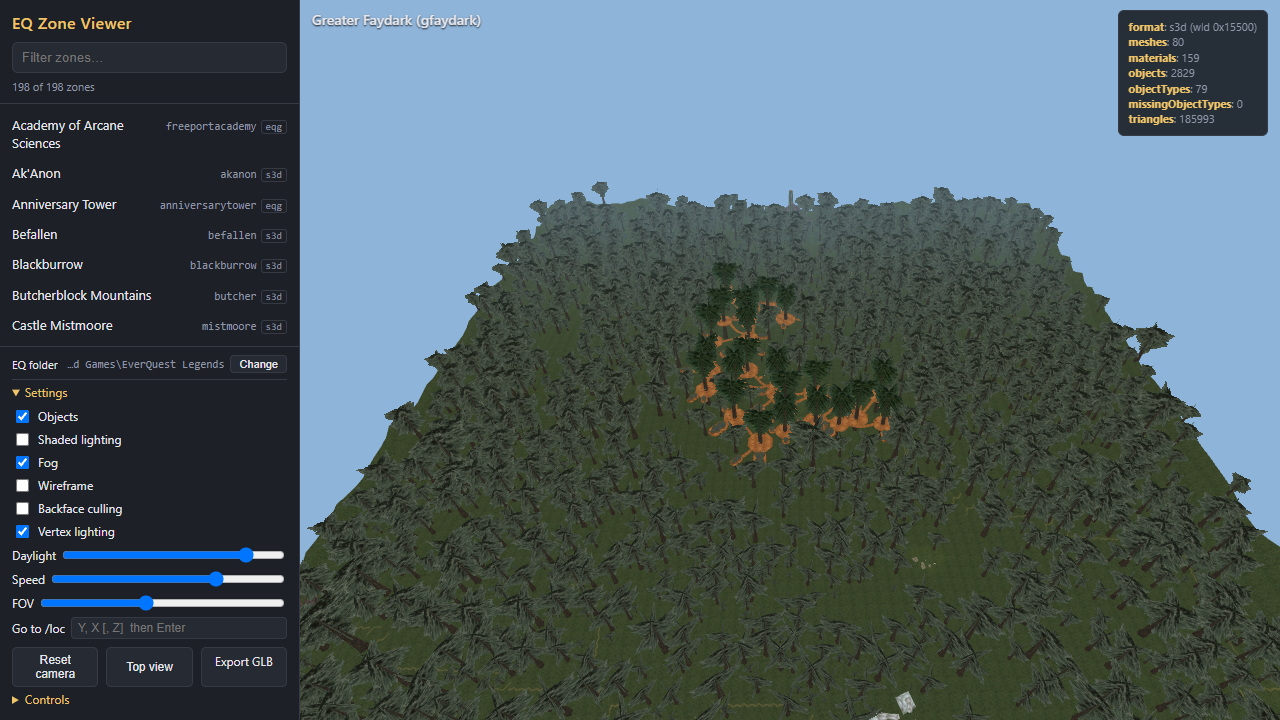
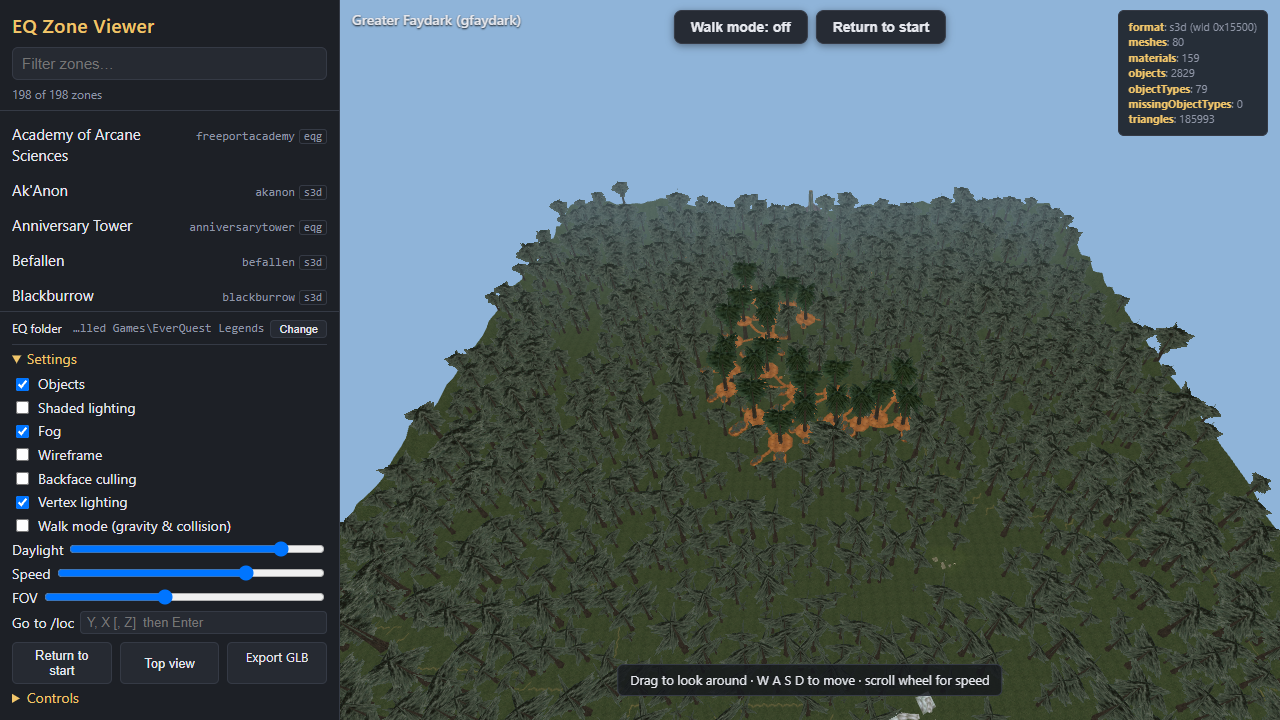
Drag-based mouse look and a larger sidebar font
Mouse look no longer captures the pointer: drag with the left or right button
to look around, so the menu stays one click away. Clicked buttons drop focus so
Space keeps jumping or flying. The sidebar text is larger and the panel wider,
and the README screenshots are refreshed.

Changed region(s): [[0.0, 0.0, 1.0, 1.0], [0.5, 0.0, 0.75, 0.0917]]

diff --git a/src/client/main.ts b/src/client/main.ts
@@ -231,6 +231,7 @@ async function loadZone(z: ZoneInfo): Promise<void> {
     applyHashCamera();
     setStatus(`${z.longName}  (${z.name})`);
     showWarnings(extras);
+    hintEl.classList.remove('hidden');
   } catch (e: any) {
     console.error(e);
     setStatus(`Failed to load ${z.name}: ${e.message}`);
@@ -309,8 +310,6 @@ let yaw = 0;
 let pitch = 0;
 let speed = 180;
 const velocity = new THREE.Vector3();
-let pointerLocked = false;
-
 // ---------- Walk mode (gravity + collision) ----------
 const EYE_HEIGHT = 6; // EverQuest units; the camera sits at a character's eye level
 const STEP_HEIGHT = 3; // ledges lower than this are stepped over instead of blocking
@@ -586,19 +585,31 @@ function updateCameraRotation(): void {
   camera.quaternion.setFromEuler(new THREE.Euler(pitch, yaw, 0, 'YXZ'));
 }
 
-canvas.addEventListener('click', () => {
-  if (!pointerLocked) canvas.requestPointerLock();
+// Mouse look is drag-based (left or right button) so the cursor stays free for the menu.
+let dragging = false;
+canvas.addEventListener('mousedown', (e) => {
+  if (e.button !== 0 && e.button !== 2) return;
+  dragging = true;
+  canvas.classList.add('dragging');
+  hintEl.classList.add('hidden');
+  canvas.focus();
+  e.preventDefault();
 });
-document.addEventListener('pointerlockchange', () => {
-  pointerLocked = document.pointerLockElement === canvas;
-  hintEl.classList.toggle('hidden', pointerLocked || !zoneRoot);
+window.addEventListener('mouseup', () => {
+  dragging = false;
+  canvas.classList.remove('dragging');
 });
-document.addEventListener('mousemove', (e) => {
-  if (!pointerLocked) return;
-  yaw -= e.movementX * 0.0022;
-  pitch -= e.movementY * 0.0022;
+window.addEventListener('mousemove', (e) => {
+  if (!dragging) return;
+  yaw -= e.movementX * 0.004;
+  pitch -= e.movementY * 0.004;
   pitch = THREE.MathUtils.clamp(pitch, -Math.PI / 2 + 0.01, Math.PI / 2 - 0.01);
   updateCameraRotation();
+});
+canvas.addEventListener('contextmenu', (e) => e.preventDefault());
+// A clicked button keeps keyboard focus, which would make Space re-trigger it instead of jumping or flying up.
+document.addEventListener('click', (e) => {
+  if (e.target instanceof HTMLButtonElement || e.target instanceof HTMLAnchorElement) e.target.blur();
 });
 canvas.addEventListener('wheel', (e) => {
   speed *= Math.pow(1.15, -Math.sign(e.deltaY));
@@ -618,7 +629,11 @@ window.addEventListener('keydown', (e) => {
   }
 });
 window.addEventListener('keyup', (e) => keys.delete(e.code));
-window.addEventListener('blur', () => keys.clear());
+window.addEventListener('blur', () => {
+  keys.clear();
+  dragging = false;
+  canvas.classList.remove('dragging');
+});
 
 function applyVisibility(): void {
   if (!zoneRoot) return;

diff --git a/public/style.css b/public/style.css
@@ -28,8 +28,9 @@ body {
 }
 
 #sidebar {
-  width: 300px;
-  flex: 0 0 300px;
+  width: 340px;
+  flex: 0 0 340px;
+  font-size: 15px;
   background: var(--panel);
   border-right: 1px solid var(--border);
   display: flex;
@@ -44,7 +45,7 @@ body {
 
 #sidebar h1 {
   margin: 0 0 8px;
-  font-size: 16px;
+  font-size: 19px;
   font-weight: 600;
   color: var(--accent2);
   letter-spacing: 0.02em;
@@ -53,6 +54,7 @@ body {
 #filter {
   width: 100%;
   padding: 7px 9px;
+  font-size: 15px;
   border-radius: 6px;
   border: 1px solid var(--border);
   background: var(--panel2);
@@ -66,7 +68,7 @@ body {
 
 #zone-count {
   margin-top: 6px;
-  font-size: 11px;
+  font-size: 12px;
 }
 
 #zone-list {
@@ -79,7 +81,7 @@ body {
 }
 
 #zone-list li {
-  padding: 6px 12px;
+  padding: 7px 12px;
   cursor: pointer;
   display: flex;
   justify-content: space-between;
@@ -98,7 +100,7 @@ body {
 
 #zone-list li .short {
   color: var(--muted);
-  font-size: 11px;
+  font-size: 12px;
   font-family: ui-monospace, Consolas, monospace;
 }
 
@@ -107,7 +109,7 @@ body {
 }
 
 #zone-list li .kind {
-  font-size: 10px;
+  font-size: 11px;
   color: var(--muted);
   border: 1px solid var(--border);
   border-radius: 3px;
@@ -118,7 +120,7 @@ body {
 #sidebar footer {
   border-top: 1px solid var(--border);
   padding: 8px 12px;
-  font-size: 12px;
+  font-size: 14px;
 }
 
 details summary {
@@ -148,7 +150,7 @@ details summary {
   border: 1px solid var(--border);
   background: var(--panel2);
   color: var(--text);
-  font-size: 12px;
+  font-size: 13px;
   min-width: 0;
 }
 
@@ -169,7 +171,7 @@ details summary {
   color: var(--text);
   text-decoration: none;
   cursor: pointer;
-  font-size: 12px;
+  font-size: 13px;
 }
 
 #settings button:hover,
@@ -197,6 +199,11 @@ details summary {
   height: 100%;
   display: block;
   outline: none;
+  cursor: grab;
+}
+
+#canvas.dragging {
+  cursor: grabbing;
 }
 
 #hud {
@@ -263,7 +270,7 @@ details summary {
   display: flex;
   align-items: center;
   gap: 6px;
-  font-size: 11px;
+  font-size: 12px;
   padding-bottom: 6px;
   margin-bottom: 4px;
   border-bottom: 1px solid var(--border);

diff --git a/public/index.html b/public/index.html
@@ -41,7 +41,7 @@
       </details>
       <details id="help">
         <summary>Controls</summary>
-        <p>Click the view to capture the mouse, <b>Esc</b> to release.<br />
+        <p>Drag in the view (left or right button) to look around.<br />
           <b>W A S D</b> move · <b>Q / C</b> down · <b>E / Space</b> up<br />
           <b>Shift</b> fast · <b>Ctrl</b> slow · <b>Mouse wheel</b> speed<br />
           <b>R</b> reset camera · <b>O</b> toggle objects · <b>T</b> top view<br />
@@ -50,7 +50,7 @@
     </footer>
   </aside>
   <main id="view">
-    <canvas id="canvas"></canvas>
+    <canvas id="canvas" tabindex="-1"></canvas>
     <div id="hud">
       <div id="status">Select a zone</div>
       <div id="stats" class="muted"></div>
@@ -60,7 +60,7 @@
       <button id="btn-start" type="button" title="Back to the zone's start point (R)">Return to start</button>
     </div>
     <div id="warnings" class="hidden"></div>
-    <div id="hint" class="hidden">Click to look around</div>
+    <div id="hint" class="hidden">Drag to look around · W A S D to move · scroll wheel for speed</div>
     <div id="setup" class="hidden">
       <div class="panel">
         <h2>Where is EverQuest installed?</h2>

diff --git a/README.md b/README.md
@@ -74,7 +74,8 @@ Other settings:
 
 ## Using the viewer
 
-Click the 3D view to capture the mouse; **Esc** releases it.
+Drag in the 3D view with the left or right mouse button to look around. The cursor is never captured, so
+the menu is always one click away.
 
 | Keys | Action |
 | --- | --- |
